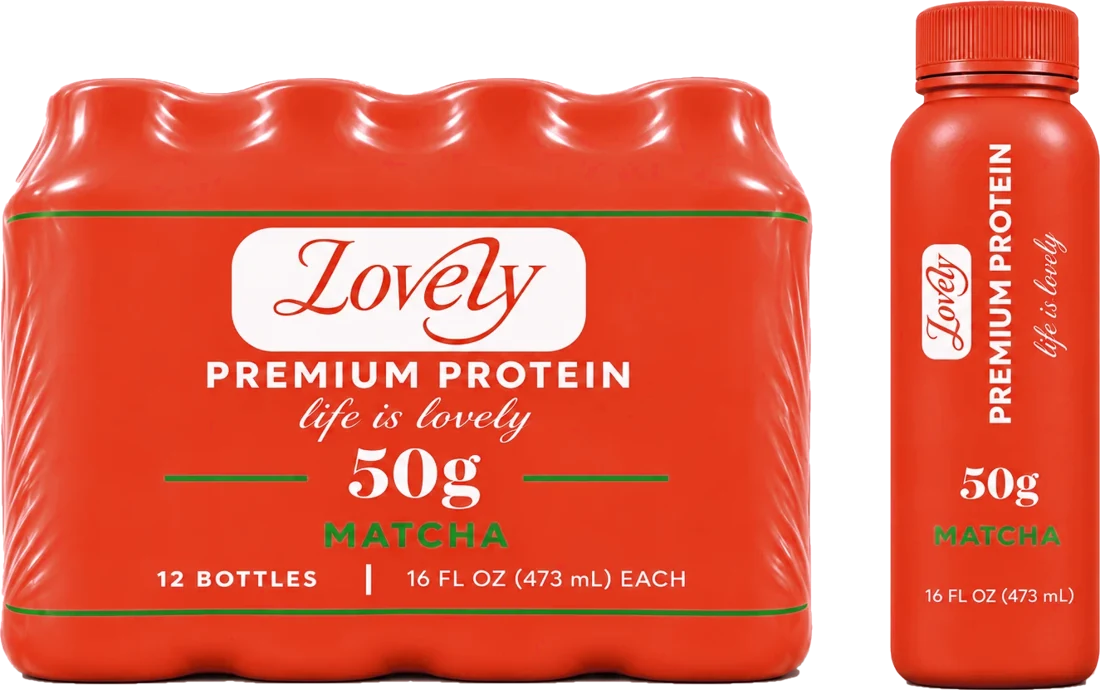
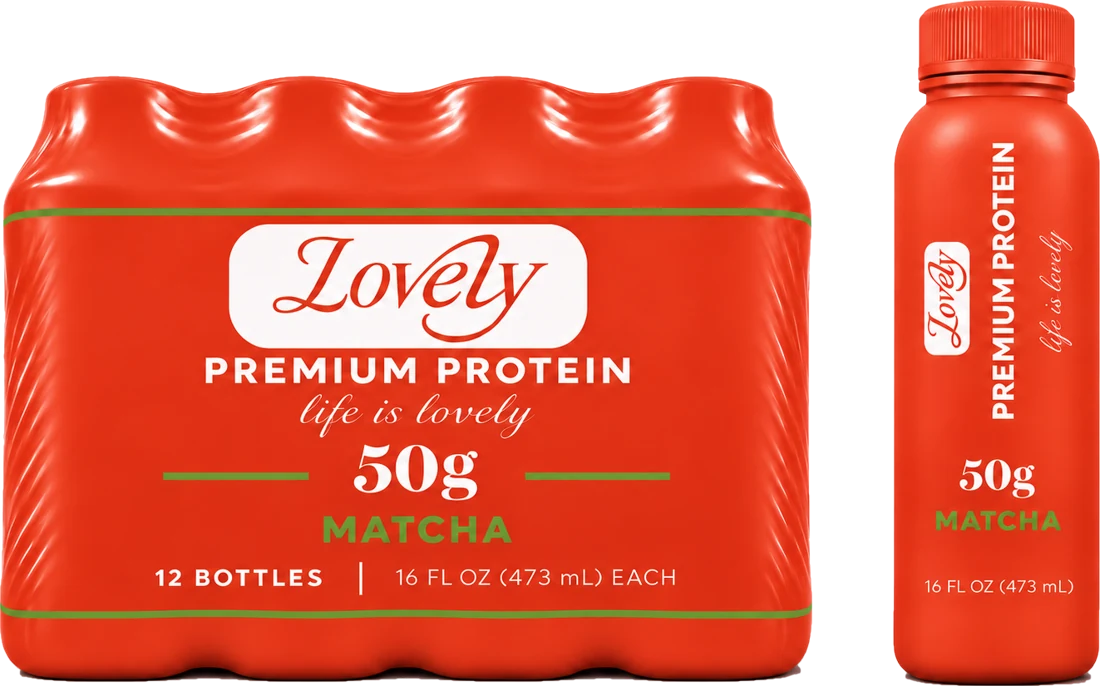
50g Matcha pack: use the supplied render
Claude-Session: https://claude.ai/code/session_01AzpPYfJ2iNTin5mbwrihoY

diff --git a/index.html b/index.html
@@ -1384,7 +1384,7 @@ header.top.over .tabs a { text-shadow: 0 1px 10px rgba(156,61,102,.35); }
 <div class="hs-copy"><p class="hs-kick">Premium protein · <em>life is lovely</em></p><h1 id="h-shakes">The protein shake you actually <em>want to drink.</em></h1><p class="lead">Tastes like a milkshake. Protein for him and for her. Protein for light weight, heavy weight, and everything in between. Only ingredients you can actually pronounce. Helping you build a life that's lovely.</p><div class="ctas stack"><a class="btn alt" href="index.html#lovelypass"><span class="swl"><span>Lovely</span></span> Pass</a><a class="btn" href="#find">Find a fridge</a></div></div>
 <div class="hs-stage">
 <div class="hs-bottles"><div class="hs-glow" aria-hidden="true"></div>
-<img class="hs-b hpk" data-k="choc" src="img/hp30_choc.webp?v=3" data-30="img/hp30_choc.webp?v=3" data-50="img/hp50_choc.webp?v=12" alt="Lovely Chocolate 12-pack and bottle" width="1100" height="660" fetchpriority="high"><img class="hs-b hpk" data-k="van" src="img/hp30_van.webp?v=3" data-30="img/hp30_van.webp?v=3" data-50="img/hp50_van.webp?v=12" alt="Lovely Vanilla 12-pack and bottle" width="1100" height="660" loading="eager"><img class="hs-b hpk" data-k="cbutter" src="img/hp30_cbutter.webp?v=3" data-30="img/hp30_cbutter.webp?v=3" data-50="img/hp50_cbutter.webp?v=12" alt="Lovely Cookie Butter 12-pack and bottle" width="1100" height="660" loading="eager"><img class="hs-b hpk" data-k="matcha" src="img/hp30_matcha.webp?v=3" data-30="img/hp30_matcha.webp?v=3" data-50="img/hp50_matcha.webp?v=12" alt="Lovely Matcha 12-pack and bottle" width="1100" height="660" loading="eager"><img class="hs-b hpk" data-k="pb" src="img/hp30_pb.webp?v=3" data-30="img/hp30_pb.webp?v=3" data-50="img/hp50_pb.webp?v=12" alt="Lovely Peanut Butter 12-pack and bottle" width="1100" height="660" loading="eager"></div>
+<img class="hs-b hpk" data-k="choc" src="img/hp30_choc.webp?v=3" data-30="img/hp30_choc.webp?v=3" data-50="img/hp50_choc.webp?v=14" alt="Lovely Chocolate 12-pack and bottle" width="1100" height="660" fetchpriority="high"><img class="hs-b hpk" data-k="van" src="img/hp30_van.webp?v=3" data-30="img/hp30_van.webp?v=3" data-50="img/hp50_van.webp?v=14" alt="Lovely Vanilla 12-pack and bottle" width="1100" height="660" loading="eager"><img class="hs-b hpk" data-k="cbutter" src="img/hp30_cbutter.webp?v=3" data-30="img/hp30_cbutter.webp?v=3" data-50="img/hp50_cbutter.webp?v=14" alt="Lovely Cookie Butter 12-pack and bottle" width="1100" height="660" loading="eager"><img class="hs-b hpk" data-k="matcha" src="img/hp30_matcha.webp?v=3" data-30="img/hp30_matcha.webp?v=3" data-50="img/hp50_matcha.webp?v=14" alt="Lovely Matcha 12-pack and bottle" width="1100" height="660" loading="eager"><img class="hs-b hpk" data-k="pb" src="img/hp30_pb.webp?v=3" data-30="img/hp30_pb.webp?v=3" data-50="img/hp50_pb.webp?v=14" alt="Lovely Peanut Butter 12-pack and bottle" width="1100" height="660" loading="eager"></div>
 <div class="hs-under"><p class="hs-name" aria-live="polite">Chocolate</p><div class="hs-size" role="group" aria-label="Bottle size"><button type="button" data-p="30" aria-pressed="true">30g</button><button type="button" data-p="50" aria-pressed="false">50g</button></div></div>
 <div class="hs-chips" role="group" aria-label="Pick a flavor"><button type="button" class="hs-chip" data-k="choc" style="--fc:#5a2c22" aria-pressed="true">Chocolate</button><button type="button" class="hs-chip" data-k="van" style="--fc:#b98a3c" aria-pressed="false">Vanilla</button><button type="button" class="hs-chip" data-k="cbutter" style="--fc:#864a28" aria-pressed="false">Cookie Butter</button><button type="button" class="hs-chip" data-k="matcha" style="--fc:#3f6e1c" aria-pressed="false">Matcha</button><button type="button" class="hs-chip" data-k="pb" style="--fc:#8a5a2a" aria-pressed="false">Peanut Butter</button></div>
 </div>

diff --git a/products.html b/products.html
@@ -1372,7 +1372,7 @@ footer.site h2, footer.site h3, footer.site b, footer.site h2 .swl span { color:
   </div>
 </article>
 <article class="st-card" data-cat="shakes" data-price="101.99" data-order="3" data-new="1" data-k="matcha" data-p="30">
-  <a class="st-img bottle" href="shop.html?f=matcha" aria-label="Matcha protein shake"><img class="alt" src="img/pack_matcha_sm.webp?v=7" data-30="img/pack_matcha_sm.webp?v=7" data-50="img/pack_swoll_matcha_sm.webp?v=12" alt="" width="768" height="512" loading="lazy" aria-hidden="true"><img class="main" src="img/b_matcha.webp?v=10" data-30="img/b_matcha.webp?v=10" data-50="img/sw_matcha_lg.webp?v=12" alt="Matcha protein shake, 30g protein" width="204" height="700" loading="lazy"><span class="st-badges"><em class="nw">New</em></span></a>
+  <a class="st-img bottle" href="shop.html?f=matcha" aria-label="Matcha protein shake"><img class="alt" src="img/pack_matcha_sm.webp?v=7" data-30="img/pack_matcha_sm.webp?v=7" data-50="img/pack_swoll_matcha_sm.webp?v=14" alt="" width="768" height="512" loading="lazy" aria-hidden="true"><img class="main" src="img/b_matcha.webp?v=10" data-30="img/b_matcha.webp?v=10" data-50="img/sw_matcha_lg.webp?v=12" alt="Matcha protein shake, 30g protein" width="204" height="700" loading="lazy"><span class="st-badges"><em class="nw">New</em></span></a>
   <div class="st-body">
     <h3><a href="shop.html?f=matcha">Matcha Protein Shake</a></h3>
     <p class="st-var"><span data-var>24 bottles · 30g protein</span></p>

diff --git a/shop.html b/shop.html
@@ -2096,7 +2096,7 @@ footer.site h2, footer.site h3, footer.site b, footer.site h2 .swl span { color:
   function m(v) { return "$" + v.toFixed(2); }
   function pics() { var f = st.f, w = st.p === 50;
     if (f === "mix") return [["img/lineup_mix.webp?v=12", "Protein shakes in every flavor, 30g and 50g bottles", 0], ["img/size_compare.webp?v=13", "30g and 50g bottles side by side", 0], ["img/pack_choc.webp?v=7", "A 12-bottle pack", 0]];
-    return [[w ? "img/pack_swoll_" + f + ".webp?v=12" : "img/pack_" + f + ".webp?v=7", N[f] + " protein shake, " + st.p + "g, with its pack", 0],
+    return [[w ? "img/pack_swoll_" + f + ".webp?v=14" : "img/pack_" + f + ".webp?v=7", N[f] + " protein shake, " + st.p + "g, with its pack", 0],
       [w ? "img/sw_" + f + "_lg.webp?v=12" : "img/b_" + f + ".webp?v=10", N[f] + " protein shake bottle, " + st.p + "g protein", 1],
       ["img/size_compare.webp?v=13", "30g and 50g bottles side by side", 0], ["img/lineup_mix.webp?v=12", "Every flavor in 30g and 50g bottles", 0]]; }
   function draw() {
